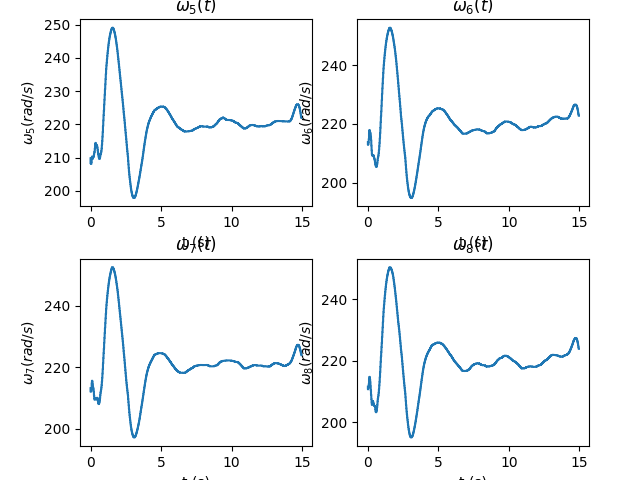
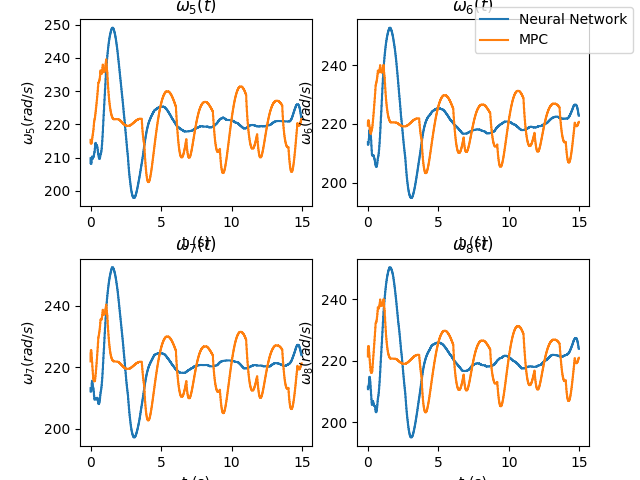
mpc and nn input polots together now

diff --git a/6dof_quadrotor/plots.py b/6dof_quadrotor/plots.py
@@ -145,32 +145,50 @@ class DataAnalyser(object):
             del fig
             del axs
 
-        self.plot_inputs(u_vector, t, omega_vector, save_path)
+        if trajectory is not None: legend = legend[:-1]
+        self.plot_inputs(u_vector, t, legend, omega_vector, save_path)
         if save_path is None: plt.show()
         plt.close('all')
 
-    def plot_inputs(self, u_vector, t, omega_vector = None, save_path=None):
+    def plot_inputs(self, u_vector, t, legend, omega_vector = None, save_path=None):
         t = t[0:-1]
+        handles = []
+        if len(omega_vector[0]) <= 8: # It is a single input vector
+            omega_list = [omega_vector]
+            u_list = [u_vector]
+        else: 
+            u_list = u_vector
+            omega_list = omega_vector
+
         fig, axs = plt.subplots(2, 2)
-        axs[0,0].step(t,u_vector[:,0])
+        for u in u_list: handles.append(axs[0,0].step(t,u[:,0])[0])
         axs[0,0].set_title('f_t (t)')
         axs[0,0].set_ylabel('f_t (N)')
         axs[0,0].set_xlabel('t (s)')
 
-        axs[0,1].step(t,u_vector[:,1])
+        for u in u_list: axs[0,1].step(t,u[:,1])
         axs[0,1].set_title('$\\tau_x (t)$')
         axs[0,1].set_ylabel('$\\tau_x (N.m)$')
         axs[0,1].set_xlabel('t (s)')
 
-        axs[1,0].step(t,u_vector[:,2])
+        for u in u_list: axs[1,0].step(t,u[:,2])
         axs[1,0].set_title('$\\tau_y (t)$')
         axs[1,0].set_ylabel('$\\tau_y (N.m)$')
         axs[1,0].set_xlabel('t (s)')
 
-        axs[1,1].step(t,u_vector[:,3])
+        for u in u_list: axs[1,1].step(t,u[:,3])
         axs[1,1].set_title('$\\tau_z (t)$')
         axs[1,1].set_ylabel('$\\tau_z (N.m)$')
         axs[1,1].set_xlabel('t (s)')
+
+        for i in range(len(handles)):
+            handles[i] = mlines.Line2D([], [],
+                                    color=handles[i].get_color(),
+                                    linestyle=handles[i].get_linestyle(),
+                                    label=f'c{i+1}' if i >= len(legend) else legend[i])
+        
+        fig.legend(handles=handles)
+
         plt.subplots_adjust(left=0.125, bottom=0.071, right=0.921, top=0.96, wspace=0.195, hspace=0.279)
 
 
@@ -183,25 +201,28 @@ class DataAnalyser(object):
 
         if omega_vector is not None:
             fig, axs = plt.subplots(2, 2)
-            axs[0,0].step(t,omega_vector[:,0])
+            for omega in omega_list: axs[0,0].step(t,omega[:,0])
             axs[0,0].set_title('$\\omega_1 (t)$')
             axs[0,0].set_ylabel('$\\omega_1 (rad/s)$')
             axs[0,0].set_xlabel('t (s)')
 
-            axs[0,1].step(t,omega_vector[:,1])
+            for omega in omega_list: axs[0,1].step(t,omega[:,1])
             axs[0,1].set_title('$\\omega_2 (t)$')
             axs[0,1].set_ylabel('$\\omega_2 (rad/s)$')
             axs[0,1].set_xlabel('t (s)')
 
-            axs[1,0].step(t,omega_vector[:,2])
+            for omega in omega_list: axs[1,0].step(t,omega[:,2])
             axs[1,0].set_title('$\\omega_3 (t)$')
             axs[1,0].set_ylabel('$\\omega_3 (rad/s)$')
             axs[1,0].set_xlabel('t (s)')
 
-            axs[1,1].step(t,omega_vector[:,3])
+            for omega in omega_list: axs[1,1].step(t,omega[:,3])
             axs[1,1].set_title('$\\omega_4 (t)$')
             axs[1,1].set_ylabel('$\\omega_4 (rad/s)$')
             axs[1,1].set_xlabel('t (s)')
+        
+            fig.legend(handles=handles)
+
             plt.subplots_adjust(left=0.125, bottom=0.071, right=0.921, top=0.96, wspace=0.195, hspace=0.279)
             
 
@@ -212,29 +233,31 @@ class DataAnalyser(object):
                 del fig
                 del axs
 
-            if np.shape(omega_vector)[1] == 8:
+            if np.shape(omega_list[0])[1] == 8:
                 fig, axs = plt.subplots(2, 2)
-                axs[0,0].step(t,omega_vector[:,4])
+                for omega in omega_list: axs[0,0].step(t,omega[:,4])
                 axs[0,0].set_title('$\\omega_5 (t)$')
                 axs[0,0].set_ylabel('$\\omega_5 (rad/s)$')
                 axs[0,0].set_xlabel('t (s)')
 
-                axs[0,1].step(t,omega_vector[:,5])
+                for omega in omega_list: axs[0,1].step(t,omega[:,5])
                 axs[0,1].set_title('$\\omega_6 (t)$')
                 axs[0,1].set_ylabel('$\\omega_6 (rad/s)$')
                 axs[0,1].set_xlabel('t (s)')
 
-                axs[1,0].step(t,omega_vector[:,6])
+                for omega in omega_list: axs[1,0].step(t,omega[:,6])
                 axs[1,0].set_title('$\\omega_7 (t)$')
                 axs[1,0].set_ylabel('$\\omega_7 (rad/s)$')
                 axs[1,0].set_xlabel('t (s)')
 
-                axs[1,1].step(t,omega_vector[:,7])
+                for omega in omega_list: axs[1,1].step(t,omega[:,7])
                 axs[1,1].set_title('$\\omega_8 (t)$')
                 axs[1,1].set_ylabel('$\\omega_8 (rad/s)$')
                 axs[1,1].set_xlabel('t (s)')
-                plt.subplots_adjust(left=0.125, bottom=0.071, right=0.921, top=0.96, wspace=0.195, hspace=0.279)
 
+                fig.legend(handles=handles)
+
+                plt.subplots_adjust(left=0.125, bottom=0.071, right=0.921, top=0.96, wspace=0.195, hspace=0.279)
 
                 if save_path is not None: 
                     plt.savefig(save_path + 'inputs-rotors2.png')

diff --git a/6dof_quadrotor/simulate_both.py b/6dof_quadrotor/simulate_both.py
@@ -35,7 +35,7 @@ t_samples_extended = np.arange(0,2*T_simulation, T_sample)
 X0 = np.array([0,0,0,0,0,0,0,0,0,0,0,0])
 
 # Trajectory type
-trajectory_type = 'point'
+trajectory_type = 'circle_xy'
 disturb_input = False
 use_optuna_model = True
 
@@ -98,6 +98,9 @@ def simulate_mpc_nn(X0, multirotor_model, N, M, num_inputs, q_neuralnetwork, ome
         dataset_dataframe = pd.DataFrame(simulation_metadata)
         dataset_dataframe.to_csv(dataset_mother_folder + 'dataset_metadata.csv', sep=',')
 
+        legend = ['Neural Network', 'MPC', 'Trajectory'] if x_mpc is not None else ['Neural Network', 'Trajectory']
+        analyser.plot_states(x_nn, t_samples[:np.shape(x_nn)[0]], X_lin=x_mpc, trajectory=trajectory[:len(t_samples)], u_vector=[u_nn, u_mpc], omega_vector=[omega_nn, omega_mpc], legend=legend, equal_scales=True, save_path=simulation_save_path)
+        
 rst = restriction_handler.Restriction(multirotor_model, T_sample, N, M)
 restriction, output_weights, control_weights, restriction_metadata = rst.restriction('normal')
 
@@ -109,6 +112,5 @@ if __name__ == '__main__':
     dataset_mother_folder = nn_weights_folder
     weights_file_name = 'model_weights_octorotor.pth'
     analyser = DataAnalyser()
-    simulation_save_path = f'{dataset_mother_folder}comparative_simulations/{trajectory_type}/{str(dataset_id)}/'
 
     simulate_mpc_nn(X0, multirotor_model, N, M, num_inputs, q_neuralnetwork, omega_squared_eq, dataset_id, dataset_mother_folder, weights_file_name, time_step, T_sample, T_simulation, r_tracking, trajectory_type, restriction, restriction_metadata, output_weights, control_weights, gain_scheduling, disturb_input, num_neurons_hidden_layers, use_optuna_model)
